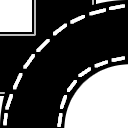
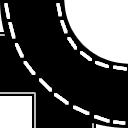
road-turn sprite

diff --git a/src/view/Visualization.java b/src/view/Visualization.java
@@ -23,6 +23,7 @@ public class Visualization extends Canvas implements IVisualizationForV, IVisual
     private List<Customer> customers = new ArrayList<>();
     private Image roundaboutTurn = new Image("roundabout.png");
     private Image roundaboutRoad = new Image("roundabout-with-road.png");
+    private Image roundaboutDouble = new Image("roundabout-double.png");
     private Image roundaboutRoad2 = new Image("roundabout-with-road2.png");
     private Image trafficLightGreen = new Image("trafficlight-green.png");
     private Image trafficLightGreen2 = new Image("trafficlight-green2.png");
@@ -32,6 +33,7 @@ public class Visualization extends Canvas implements IVisualizationForV, IVisual
     private Image crosswalkImage2 = new Image("crosswalk2.png");
     private Image roadImage = new Image("road.png");
     private Image roadImage2 = new Image("road2.png");
+    private Image roadTurn = new Image("road-turn.png");
     private Image tIntersection = new Image("t-intersection.png");
     private Image tIntersection2 = new Image("t-intersection2.png");
 
@@ -71,6 +73,10 @@ public class Visualization extends Canvas implements IVisualizationForV, IVisual
                     switch (servicePoint.getRotation()) {
                         case "right", "left" -> drawImage(roadImage, servicePoint.getX() * gridSize, servicePoint.getY() * gridSize, gridSize, gridSize);
                         case "top", "bottom" -> drawImage(roadImage2, servicePoint.getX() * gridSize, servicePoint.getY() * gridSize, gridSize, gridSize);
+                        case "right-turn" -> drawImage(roadTurn, servicePoint.getX() * gridSize, servicePoint.getY() * gridSize, gridSize, gridSize);
+                        case "top-turn" -> drawImage(roadTurn, servicePoint.getX() * gridSize + gridSize, servicePoint.getY() * gridSize, -gridSize, gridSize);
+                        case "left-turn" -> drawImage(roadTurn, servicePoint.getX() * gridSize + gridSize, servicePoint.getY() * gridSize + gridSize, -gridSize, -gridSize);
+                        case "bottom-turn" -> drawImage(roadTurn, servicePoint.getX() * gridSize, servicePoint.getY() * gridSize + gridSize, gridSize, -gridSize);
                         case "t-intersection-right" -> drawImage(tIntersection2, servicePoint.getX() * gridSize + gridSize, servicePoint.getY() * gridSize, -gridSize, gridSize);
                         case "t-intersection-top" -> drawImage(tIntersection, servicePoint.getX() * gridSize, servicePoint.getY() * gridSize + gridSize, gridSize, -gridSize);
                         case "t-intersection-left" -> drawImage(tIntersection2, servicePoint.getX() * gridSize, servicePoint.getY() * gridSize, gridSize, gridSize);
@@ -91,6 +97,10 @@ public class Visualization extends Canvas implements IVisualizationForV, IVisual
                         case "top" -> drawImage(roundaboutTurn, servicePoint.getX() * gridSize + gridSize, servicePoint.getY() * gridSize, -gridSize, gridSize);
                         case "left" -> drawImage(roundaboutTurn, servicePoint.getX() * gridSize + gridSize, servicePoint.getY() * gridSize + gridSize, -gridSize, -gridSize);
                         case "bottom" -> drawImage(roundaboutTurn, servicePoint.getX() * gridSize, servicePoint.getY() * gridSize + gridSize, gridSize, -gridSize);
+                        case "right-double" -> drawImage(roundaboutDouble, servicePoint.getX() * gridSize, servicePoint.getY() * gridSize, gridSize, gridSize);
+                        case "top-double" -> drawImage(roundaboutDouble, servicePoint.getX() * gridSize + gridSize, servicePoint.getY() * gridSize, -gridSize, gridSize);
+                        case "left-double" -> drawImage(roundaboutDouble, servicePoint.getX() * gridSize + gridSize, servicePoint.getY() * gridSize + gridSize, -gridSize, -gridSize);
+                        case "bottom-double" -> drawImage(roundaboutDouble, servicePoint.getX() * gridSize, servicePoint.getY() * gridSize + gridSize, gridSize, -gridSize);
                         case "right-road" -> drawImage(roundaboutRoad, servicePoint.getX() * gridSize, servicePoint.getY() * gridSize, gridSize, gridSize);
                         case "top-road" -> drawImage(roundaboutRoad2, servicePoint.getX() * gridSize, servicePoint.getY() * gridSize, gridSize, gridSize);
                         case "left-road" -> drawImage(roundaboutRoad, servicePoint.getX() * gridSize + gridSize, servicePoint.getY() * gridSize + gridSize, -gridSize, -gridSize);

diff --git a/src/simu/model/LevelController.java b/src/simu/model/LevelController.java
@@ -20,6 +20,7 @@ public class LevelController {
         return switch (num) {
             case -123 -> getDebugLevel();
             case 1 -> getLevel1();
+            case 3 -> getLevel3();
             default -> null;
         };
     }
@@ -83,6 +84,55 @@ public class LevelController {
         controller.render(level, "roundabout_top5_2", 5, 2, "top-road");
         controller.render(level, "roundabout_left5_1", 5, 1, "left-road");
         controller.render(level, "roundabout_bottom4_1", 4, 1, "bottom-road");
+
+        return level;
+    }
+
+    public Level getLevel3() {
+        Level level = new Level();
+        level.arrival(new ArrivalProcess(new Normal(5, 5), eventList, "ARR1", 0, 0), "road0_0");
+        level.add(new Road(new Normal(5, 3), eventList, "road0_0"), "road0_1");
+        level.add(new Road(new Normal(5, 3), eventList, "road0_1"), "road0_2");
+        level.add(new Road(new Normal(5, 3), eventList, "road0_2"), "road0_3");
+        level.add(new Road(new Normal(5, 3), eventList, "road0_3"), new String[]{"road0_4", "road1_3"});
+        level.add(new Road(new Normal(5, 3), eventList, "road0_4"), "road0_5");
+        level.add(new Road(new Normal(5, 3), eventList, "road0_5"));
+        level.add(new Road(new Normal(5, 3), eventList, "road1_3"), "road2_3");
+        level.add(new Road(new Normal(5, 3), eventList, "road2_3"), "roundabout3_3");
+        level.add(new Roundabout(new Normal(5, 1), new Normal(0, 3), eventList, "roundabout3_3", 3), "roundabout3_4");
+        level.add(new Roundabout(new Normal(5, 1), new Normal(0, 3), eventList, "roundabout3_4", 3), new String[]{"roundabout4_4", "road3_5"});
+        level.add(new Road(new Normal(5, 3), eventList, "road3_5"), "road2_5");
+        level.add(new Road(new Normal(5, 3), eventList, "road2_5"), "road2_4");
+        level.add(new Road(new Normal(5, 3), eventList, "road2_4"), "roundabout3_4");
+        level.add(new Roundabout(new Normal(5, 1), new Normal(0, 3), eventList, "roundabout4_4", 3), new String[]{"roundabout4_3", "road5_4"});
+        level.add(new Road(new Normal(5, 3), eventList, "road5_4"), "road5_5");
+        level.add(new Road(new Normal(5, 3), eventList, "road5_5"), "road4_5");
+        level.add(new Road(new Normal(5, 3), eventList, "road4_5"), "roundabout4_4");
+        level.add(new Roundabout(new Normal(5, 1), new Normal(0, 3), eventList, "roundabout4_3", 3), new String[]{"roundabout3_3", "road4_2"});
+        level.add(new Road(new Normal(5, 3), eventList, "road4_2"), "road4_1");
+        level.add(new Road(new Normal(5, 3), eventList, "road4_1"));
+
+        controller.render(level, "road0_0", 0, 0, "bottom");
+        controller.render(level, "road0_1", 0, 1, "bottom");
+        controller.render(level, "road0_2", 0, 2, "bottom");
+        controller.render(level, "road0_3", 0, 3, "t-intersection-right");
+        controller.render(level, "road0_4", 0, 4, "bottom");
+        controller.render(level, "road0_5", 0, 5, "bottom");
+        controller.render(level, "road1_3", 1, 3, "right");
+        controller.render(level, "road2_3", 2, 3, "right");
+        controller.render(level, "roundabout3_3", 3, 3, "bottom-road");
+        controller.render(level, "roundabout3_4", 3, 4, "right-double");
+        controller.render(level, "road3_5", 3, 5, "top-turn");
+        controller.render(level, "road2_5", 2, 5, "right-turn");
+        controller.render(level, "road2_4", 2, 4, "bottom-turn");
+        controller.render(level, "roundabout4_4", 4, 4, "top-double");
+        controller.render(level, "road5_4", 5, 4, "left-turn");
+        controller.render(level, "road5_5", 5, 5, "top-turn");
+        controller.render(level, "road4_5", 4, 5, "right-turn");
+        controller.render(level, "roundabout4_3", 4, 3, "left-road");
+        controller.render(level, "road4_2", 4, 2, "top");
+        controller.render(level, "road4_1", 4, 1, "top");
+
 
         return level;
     }

diff --git a/src/simu/model/CustomEngine.java b/src/simu/model/CustomEngine.java
@@ -11,7 +11,7 @@ public class CustomEngine extends Engine {
         super(controller);
 
         LevelController levelController = new LevelController(controller, eventList);
-        currentLevel = levelController.getLevel(1);
+        currentLevel = levelController.getLevel(3);
     }
 
     @Override
